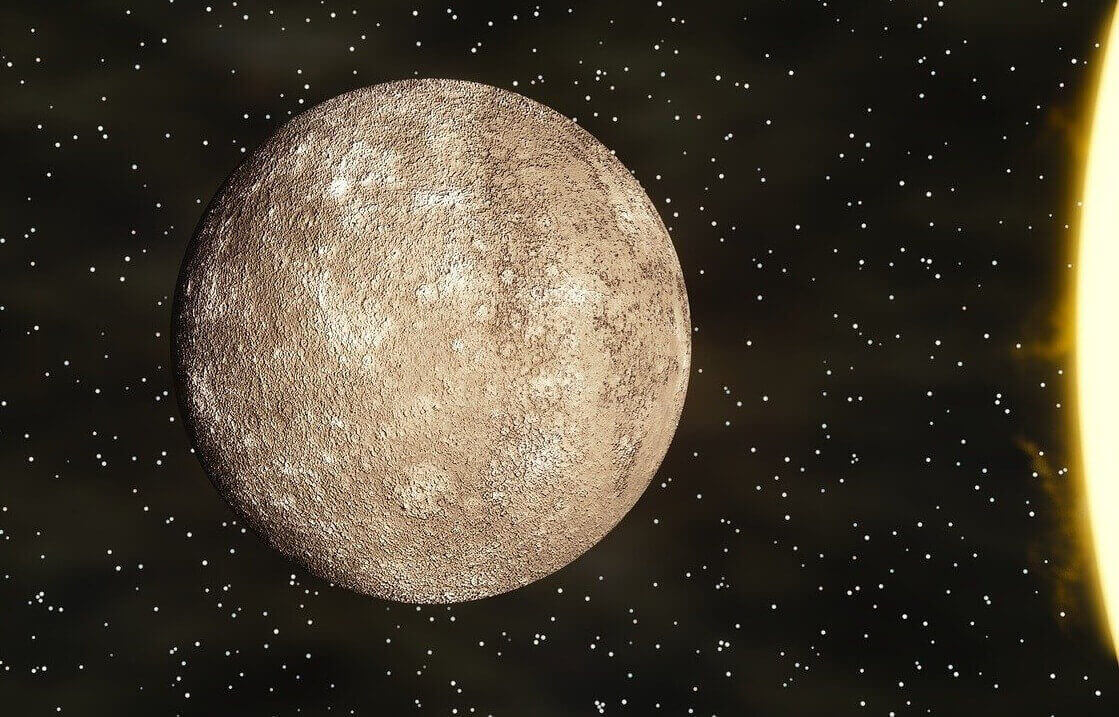
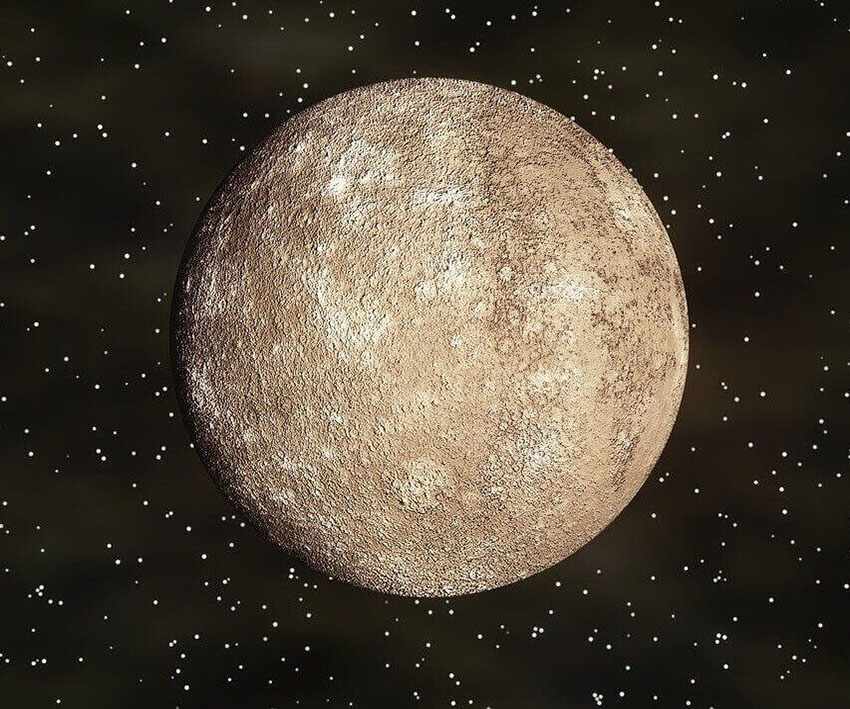
add mercurio

diff --git a/index.html b/index.html
@@ -22,12 +22,34 @@
 
     <section class="direita" id="mercurio">
         <h2></h2>
-        <p></p>
-        <img src="" alt="">
+        <p>Mercúrio é o planeta mais próximo do Sol e o menor do Sistema Solar. Tem uma superfície rochosa e craterada, semelhante à da Lua. <br>
+            Características: <br>
+            <ul>
+                <li>É o planeta mais próximo do Sol</li>
+                <li>Tem o ano mais curto do Sistema Solar, com 88 dias terrestres</li>
+                <li>Tem um dia solar muito longo, equivalente a 176 dias terrestres</li>
+                <li>Não tem estações do ano</li>
+                <li>Tem uma superfície com crateras, dorsas, montes, planícies, escarpas e vales</li>
+                <li>Tem uma atmosfera muito fina, composta de hélio e sódio</li>
+                <li>Tem um campo magnético, embora não tão forte quanto o da Terra</li>
+                <li>Tem uma alta densidade, de 5.44 g/cm3</li>
+            </ul>
+            Formação: <br>
+            <ul>
+                <li>Foi bombardeado por cometas e asteroides durante e logo após a sua formação, há 4,6 bilhões de anos</li>
+                <li>Teve atividade vulcânica e bacias como a Caloris foram preenchidas por magma</li>
+            </ul>
+            Observação: <br>
+            <ul>
+                <li>Pode ser visto da Terra a olho nu, mas apenas antes do amanhecer e pouco depois do entardecer</li>
+                <li>As primeiras observações telescópicas de Mercúrio foram feitas por Galileu Galilei em 1610</li>
+            </ul>
+        </p>
+        <img src="img/mercurio.jpg" alt="mercurio">
     </section>
 
     <section class="esquerda" id="venus">
-        <img src="" alt="">
+        <img src="img/venus.png" alt="">
         <h2></h2>
         <p></p>
     </section>
@@ -35,11 +57,11 @@
     <section class="direita" id="terra">
         <h2></h2>
         <p></p>
-        <img src="" alt="">
+        <img src="img/Terra.jpg" alt="">
     </section>
 
     <section class="esquerda" id="marte">
-        <img src="" alt="">
+        <img src="img/marte.jpeg" alt="">
         <h2></h2>
         <p></p>
     </section>
@@ -47,11 +69,11 @@
     <section class="direita" id="jupter">
         <h2></h2>
         <p></p>
-        <img src="" alt="">
+        <img src="img/jupter.jpg" alt="">
     </section>
 
     <section class="esquerda" id="saturno">
-        <img src="" alt="">
+        <img src="img/saturno.jpg" alt="">
         <h2></h2>
         <p></p>
     </section>
@@ -59,11 +81,11 @@
     <section class="direita" id="urano">
         <h2></h2>
         <p></p>
-        <img src="" alt="">
+        <img src="img/urano.jpg" alt="">
     </section>
 
     <section class="esquerda" id="netuno">
-        <img src="" alt="">
+        <img src="img/netuno.jpg" alt="">
         <h2></h2>
         <p></p>
     </section>
